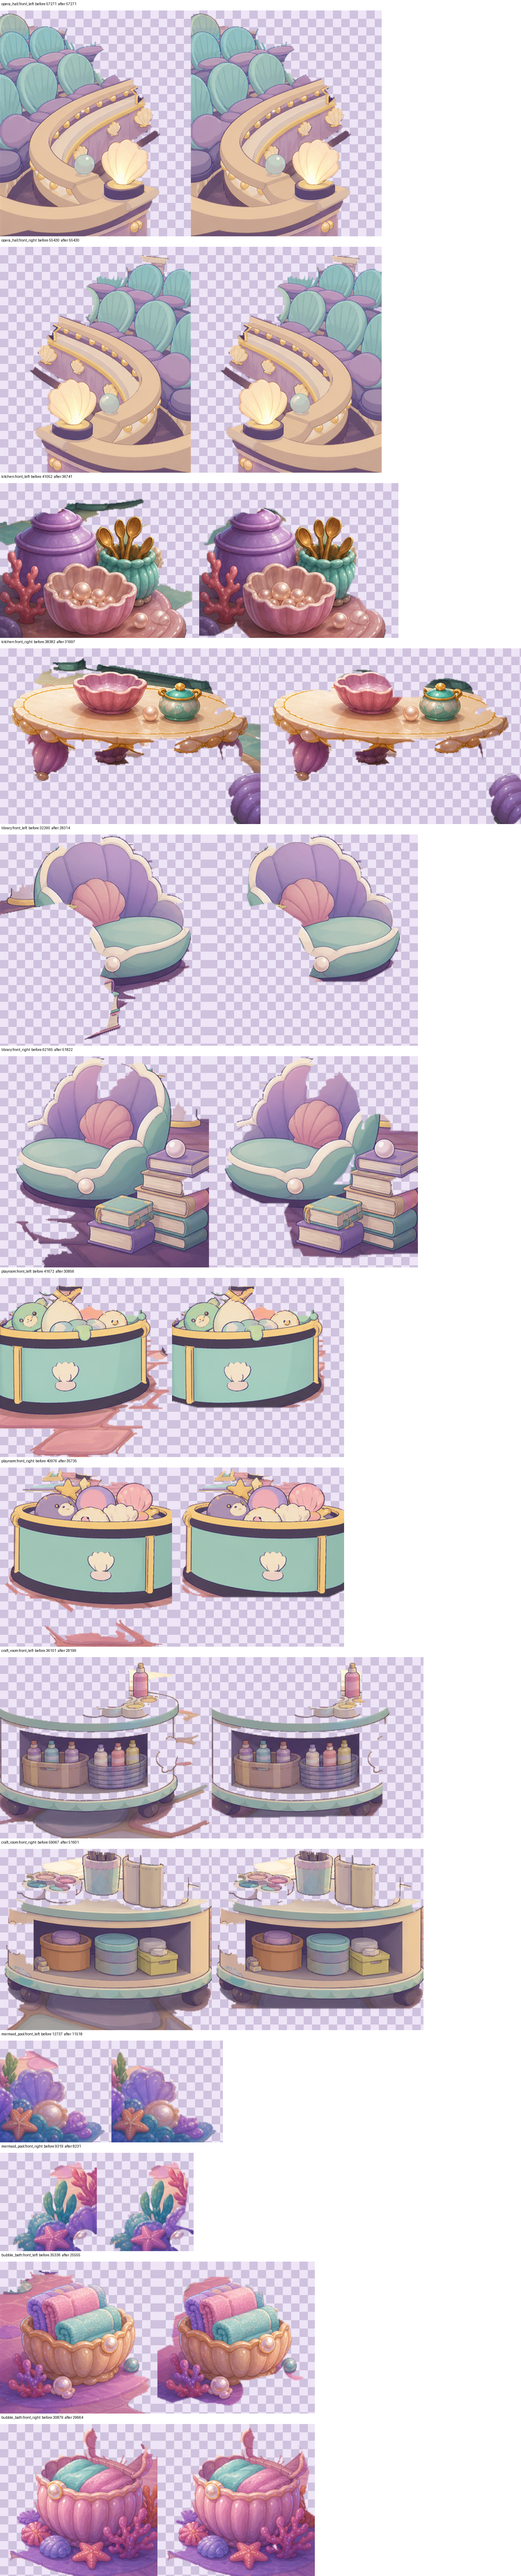
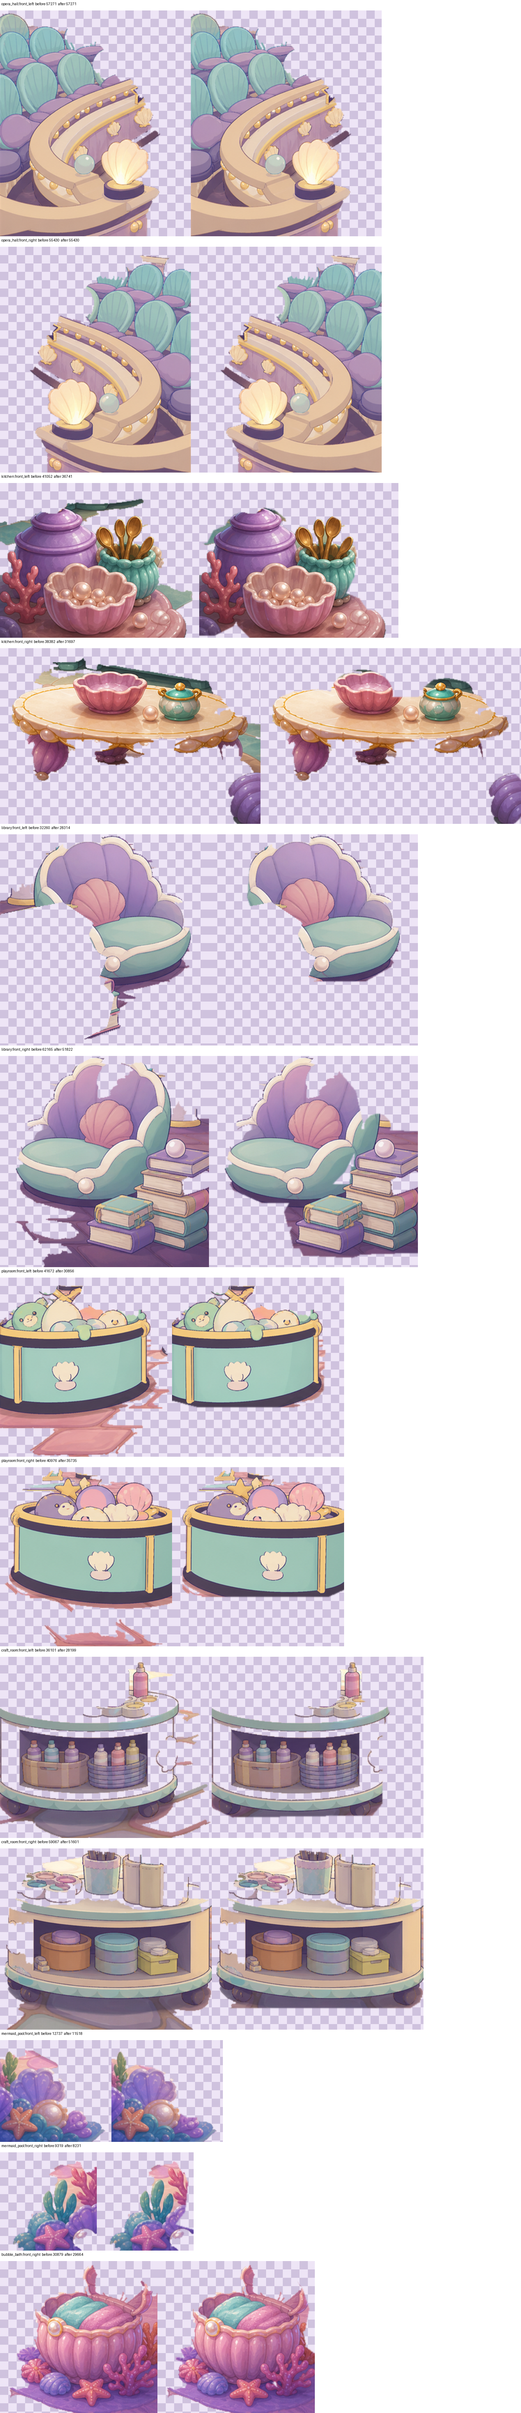
fix(castle): stop regenerating false bathtub card

diff --git a/tools/refine_castle_depth_cards.py b/tools/refine_castle_depth_cards.py
@@ -222,21 +222,6 @@ CARD_SPECS: tuple[CardSpec, ...] = (
 			(108, 102), (139, 111), (139, 141),
 			(0, 141)),
 	)),
-	CardSpec("bubble_bath", "front_left", (0, 358), (
-		# Rolled towels sit above the shell hamper; separating them removes the
-		# broad pink floor patch previously trapped between their silhouettes.
-		rounded_rectangle((38, 30, 105, 79), 18),
-		rounded_rectangle((60, 22, 137, 87), 20),
-		rounded_rectangle((99, 43, 171, 101), 20),
-		polygon((25, 78), (48, 68), (82, 64), (126, 69), (164, 76),
-			(188, 91), (194, 119), (186, 143), (169, 160), (132, 169),
-			(76, 170), (43, 157), (27, 136), (21, 107)),
-		polygon((0, 128), (18, 119), (38, 128), (54, 145), (66, 166),
-			(91, 174), (108, 191), (101, 204), (70, 202), (47, 194),
-			(21, 202), (0, 194)),
-		ellipse((79, 164, 122, 205)),
-		ellipse((181, 130, 218, 169)),
-	)),
 	CardSpec("bubble_bath", "front_right", (798, 358), (
 		polygon((116, 0), (151, 0), (184, 13), (207, 38), (217, 68),
 			(211, 99), (190, 113), (149, 103), (119, 77)),
@@ -256,6 +241,14 @@ CARD_SPECS: tuple[CardSpec, ...] = (
 
 
 RETIRED_CARDS: tuple[dict[str, Any], ...] = (
+	{
+		"room": "bubble_bath",
+		"id": "front_left",
+		"role": "foreground",
+		"path": "assets/flats/castle/rooms/room_bubble_bath_front_left.png",
+		"position": [0, 358],
+		"reason": "phone_scale_shell_towel_basket_silhouette_reads_as_a_false_second_bathtub",
+	},
 	{
 		"room": "main_hall",
 		"id": "front_left",
@@ -554,6 +547,7 @@ def build_outputs(bootstrap: bool) -> tuple[
 			"transparent_rgb_zeroed": True,
 			"legacy_hall_front_cards_runtime_retired": True,
 			"pool_mid_card_runtime_retired": True,
+			"bubble_bath_false_tub_card_runtime_retired": True,
 		},
 	}
 	return entries, provenance, sheet
